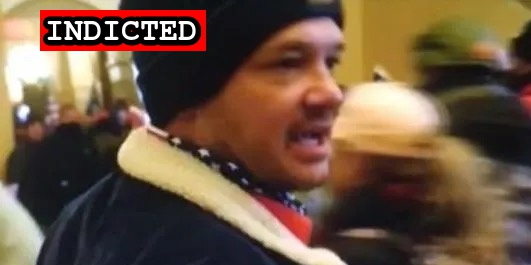
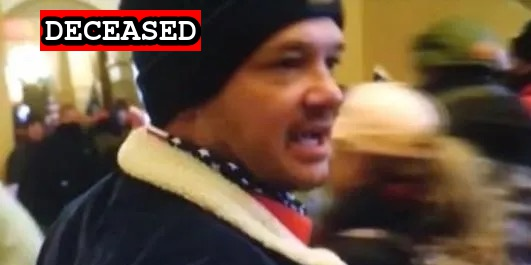
Deceased

Changed region(s): [[0.0603, 0.0604, 0.3013, 0.1811], [0.3616, 0.0302, 0.3917, 0.2113]]

diff --git a/docs/suspects/by_status.html b/docs/suspects/by_status.html
@@ -10,6 +10,7 @@ description: Complete listing of all suspects charged in the Jan. 6, 2021 sediti
 {% assign convicted = ''|split:''%}
 {% assign indicted = ''|split:''%}
 {% assign charged = ''|split:''%}
+{% assign deceased = ''|split:''%}
 
 {% for suspect in site.suspects %}
   {% if suspect.sentenced %}
@@ -27,7 +28,9 @@ description: Complete listing of all suspects charged in the Jan. 6, 2021 sediti
   {% if suspect.charged %}
     {%assign charged = charged|push:suspect%}
   {% endif %}
-
+  {% if suspect.deceased %}
+    {%assign deceased = deceased|push:suspect%}
+  {% endif %}
 {% endfor %}
 
 {% assign sentenced = sentenced | sort: "sentenced" | reverse %}
@@ -35,7 +38,7 @@ description: Complete listing of all suspects charged in the Jan. 6, 2021 sediti
 {% assign convicted = convicted | sort: "convicted" | reverse %}
 {% assign indicted = indicted | sort: "indicted" | reverse %}
 {% assign charged = charged | sort: "charged" | reverse %}
-
+{% assign deceased = deceased | sort: "deceased" | reverse %}
 
 <h2 class="table">Suspects (Sentenced)</h2>
 Total Count: {{ sentenced.size }}
@@ -87,6 +90,24 @@ Total Count: {{ dismissed.size }}
     <td><a href="{{ suspect.url }}">{{ suspect.name }}</a></td>
     <td>{{ suspect.residence }}</td>
     <td>{{ suspect.dismissed | date: "%Y-%m-%d" }}</td>
+  </tr>
+  {% endfor %}
+</table>
+
+<h2 class="table">Suspects (Deceased)</h2>
+Total Count: {{ deceased.size }}
+
+<table class="suspects">
+  <tr>
+    <th><a href="/suspects/by_name">Name</a></th>
+    <th><a href="/suspects/by_state">Residence</a></th>
+    <th><a href="/suspects">Deceased</a></th>
+  </tr>
+  {% for suspect in deceased %}
+  <tr>
+    <td><a href="{{ suspect.url }}">{{ suspect.name }}</a></td>
+    <td>{{ suspect.residence }}</td>
+    <td>{{ suspect.deceased | date: "%Y-%m-%d" }}</td>
   </tr>
   {% endfor %}
 </table>

diff --git a/commands/common/suspect.ts b/commands/common/suspect.ts
@@ -12,6 +12,7 @@ export interface Suspect {
   indicted?: string
   convicted?: string
   dismissed?: string
+  deceased?: string
   name?: string
   lastName?: string
   links?: { [type:string]: string }
@@ -62,6 +63,10 @@ export const getSuspectByFile = (filename:string) => {
 
   if (data.match(/indicted: (.*)/)) {
     suspect.indicted = data.match(/indicted: (.*)/)[1].trim();
+  }
+
+  if (data.match(/deceased: (.*)/)) {
+    suspect.deceased = data.match(/deceased: (.*)/)[1].trim();
   }
 
   suspect.name = data.match(/name: (.*)/)[1];
@@ -153,6 +158,7 @@ export const updateSuspect = (suspect: Suspect) => {
   lines.push(`convicted: ${suspect.convicted}`)
   lines.push(`sentenced: ${suspect.sentenced}`)
   lines.push(`dismissed: ${suspect.dismissed}`)
+  lines.push(`dismissed: ${suspect.deceased}`)
   lines.push(`age: ${suspect.age}`)
   lines.push(`occupation: ${suspect.occupation}`)
   lines.push(`affiliations: ${suspect.affiliations}`)

diff --git a/docs/_suspects/joseph-barnes.md b/docs/_suspects/joseph-barnes.md
@@ -3,13 +3,14 @@ name: Joseph Barnes
 lastName: Barnes
 aka:
 residence: Texas
-status: Indicted
+status: Deceased
 date: 2021-02-10
 charged: 2021-02-10
 indicted: 2021-03-05
-convicted: 
-sentenced: 
-dismissed: 
+deceased: 2021-06-12
+convicted:
+sentenced:
+dismissed:
 age: 34
 occupation: Real Estate Agent
 affiliations:
@@ -29,6 +30,8 @@ layout: suspect
 published: true
 charges:
 ---
+
 - [News Report](https://www.kxan.com/news/local/austin/fbi-arrests-austin-real-estate-agent-accused-of-participating-in-u-s-capitol-riots/)
 - [Statement of Facts](https://extremism.gwu.edu/sites/g/files/zaxdzs2191/f/Joseph%20Barnes%20Statement%20of%20Facts.pdf)
 - [Indictment](https://www.justice.gov/usao-dc/case-multi-defendant/file/1378436/download)
+- [News Report (Death)](https://www.statesman.com/story/news/2021/07/06/austin-man-tied-capitol-riot-killed-west-austin-wreck-last-month/7879207002/)
